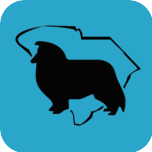
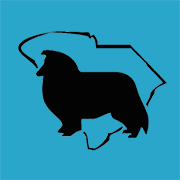
Updating assets

diff --git a/events.html b/events.html
@@ -7,24 +7,7 @@
     <meta name="description" content="List of SC Sheltie Rescue events.">
     <meta name="viewport" content="width=device-width, initial-scale=1">
 
-    <link rel="apple-touch-icon" sizes="57x57" href="/apple-touch-icon-57x57.png" />
-    <link rel="apple-touch-icon" sizes="114x114" href="/apple-touch-icon-114x114.png" />
-    <link rel="apple-touch-icon" sizes="72x72" href="/apple-touch-icon-72x72.png" />
-    <link rel="apple-touch-icon" sizes="144x144" href="/apple-touch-icon-144x144.png" />
-    <link rel="apple-touch-icon" sizes="60x60" href="/apple-touch-icon-60x60.png" />
-    <link rel="apple-touch-icon" sizes="120x120" href="/apple-touch-icon-120x120.png" />
-    <link rel="apple-touch-icon" sizes="76x76" href="/apple-touch-icon-76x76.png" />
-    <link rel="apple-touch-icon" sizes="152x152" href="/apple-touch-icon-152x152.png" />
-    <link rel="icon" type="image/png" href="/favicon-16x16.png" sizes="16x16" />
-    <link rel="icon" type="image/png" href="/favicon-32x32.png" sizes="32x32" />
-    <link rel="icon" type="image/png" href="/favicon-96x96.png" sizes="96x96" />
-    <link rel="icon" type="image/png" href="/favicon-160x160.png" sizes="160x160" />
-    <meta name="msapplication-TileColor" content="#2ba6cb" />
-    <meta name="msapplication-TileImage" content="/mstile-144x144.png" />
-    <meta name="msapplication-square70x70logo" content="/mstile-70x70.png" />
-    <meta name="msapplication-square150x150logo" content="/mstile-150x150.png" />
-    <meta name="msapplication-wide310x150logo" content="/mstile-310x150.png" />
-    <meta name="msapplication-square310x310logo" content="/mstile-310x310.png" />
+    <link rel="icon" sizes="192x192" href="favicon-192x192.png">
 
     <link rel="stylesheet" href="css/app.20140209.css"> <!-- Cache Busting: Update the # when you update main.css -->
     <script src="bower_components/modernizr/modernizr.js"></script>
@@ -75,11 +58,11 @@
             <div class="alert-box margin-top" data-alert>
               <p><strong>Update:</strong> Huge thank you to Wine & Design in Charlotte NC for hosting our summer 2014 'Paint Your Pet' event! Thank you to all who came out and helped raise much needed funds for the rescue!</p>
             </div>
-            
+
              <h2 class="event-header" id="sfd-2014">Sheltie Fun Day 2014 <small>Sat. Oct. 11, 2014 @ Columbia, SC</small></h2>
             <p>[<a class="external-link" href="img/sfd_2014.pdf" target="_blank">View PDF<span class="icon-new-tab"></span></a>]</p>
             <p>
-            
+
               Saturday, October 11, 2014<br />
               11:30am - 3:30pm<br />
               Saluda Shoals Park (Red Bud Shelter)<br />
@@ -106,7 +89,7 @@
             <h2 class="event-header" id="spring-fundraiser-2014">Spring Fundraiser 2014 <small>Sat. Apr. 12, 2014 @ Irmo, SC</small></h2>
             <p>[<a class="external-link" href="img/spring_fundraiser_2014.pdf" target="_blank">View PDF<span class="icon-new-tab"></span></a>]</p>
             <p>
-            
+
               Saturday, April 12, 2014<br />
               Noon - 4:00pm<br />
               Pet Supplies Plus<br />
@@ -122,7 +105,7 @@
               <li>We&rsquo;ll have goodies for raffle</li>
               <li>Rescue dogs available to meet you!</li>
             </ul>
-            
+
             <p><em>ALL DOGS MUST BE LEASHED</em></p>
 
             <p><em>BIG</em> thanks to our pals at Pet Supplies Plus in Irmo for all of their wonderful support!!</p>

diff --git a/404.html b/404.html
@@ -1,59 +1,60 @@
-<!DOCTYPE html>
+<!doctype html>
 <html lang="en">
-    <head>
-        <meta charset="utf-8">
-        <title>Page Not Found</title>
-        <meta name="viewport" content="width=device-width, initial-scale=1">
-        <style>
+<head>
+    <meta charset="utf-8">
+    <title>Page Not Found</title>
+    <meta name="viewport" content="width=device-width, initial-scale=1">
+    <style>
 
-            * {
-                margin: 0;
-                line-height: 1.5;
-            }
+        * {
+            line-height: 1.2;
+            margin: 0;
+        }
 
-            html {
-                color: #888;
-                font-family: sans-serif;
-                text-align: center;
-            }
+        html {
+            color: #888;
+            display: table;
+            font-family: sans-serif;
+            height: 100%;
+            text-align: center;
+            width: 100%;
+        }
 
-            body {
-                left: 50%;
-                margin: -43px 0 0 -150px;
-                position: absolute;
-                top: 50%;
-                width: 300px;
+        body {
+            display: table-cell;
+            vertical-align: middle;
+            margin: 2em auto;
+        }
+
+        h1 {
+            color: #555;
+            font-size: 2em;
+            font-weight: 400;
+        }
+
+        p {
+            margin: 0 auto;
+            width: 280px;
+        }
+
+        @media only screen and (max-width: 280px) {
+
+            body, p {
+                width: 95%;
             }
 
             h1 {
-                color: #555;
-                font-size: 2em;
-                font-weight: 400;
+                font-size: 1.5em;
+                margin: 0 0 0.3em;
             }
 
-            p {
-                line-height: 1.2;
-            }
+        }
 
-            @media only screen and (max-width: 270px) {
-
-                body {
-                    margin: 10px auto;
-                    position: static;
-                    width: 95%;
-                }
-
-                h1 {
-                    font-size: 1.5em;
-                }
-
-            }
-
-        </style>
-    </head>
-    <body>
-        <h1>Page Not Found</h1>
-        <p>Sorry, but the page you were trying to view does not exist.</p>
-    </body>
+    </style>
+</head>
+<body>
+    <h1>Page Not Found</h1>
+    <p>Sorry, but the page you were trying to view does not exist.</p>
+</body>
 </html>
-<!-- IE requires 512+ bytes: http://www.404-error-page.com/404-error-page-too-short-problem-microsoft-ie.shtml -->
+<!-- IE needs 512+ bytes: http://blogs.msdn.com/b/ieinternals/archive/2010/08/19/http-error-pages-in-internet-explorer.aspx -->

diff --git a/index.html b/index.html
@@ -7,24 +7,7 @@
     <meta name="description" content="SC Sheltie Rescue is a non-profit volunteer group dedicated to helping Shetland Sheepdogs in Columbia, SC and the surrounding areas.">
     <meta name="viewport" content="width=device-width, initial-scale=1">
 
-    <link rel="apple-touch-icon" sizes="57x57" href="/apple-touch-icon-57x57.png" />
-    <link rel="apple-touch-icon" sizes="114x114" href="/apple-touch-icon-114x114.png" />
-    <link rel="apple-touch-icon" sizes="72x72" href="/apple-touch-icon-72x72.png" />
-    <link rel="apple-touch-icon" sizes="144x144" href="/apple-touch-icon-144x144.png" />
-    <link rel="apple-touch-icon" sizes="60x60" href="/apple-touch-icon-60x60.png" />
-    <link rel="apple-touch-icon" sizes="120x120" href="/apple-touch-icon-120x120.png" />
-    <link rel="apple-touch-icon" sizes="76x76" href="/apple-touch-icon-76x76.png" />
-    <link rel="apple-touch-icon" sizes="152x152" href="/apple-touch-icon-152x152.png" />
-    <link rel="icon" type="image/png" href="/favicon-16x16.png" sizes="16x16" />
-    <link rel="icon" type="image/png" href="/favicon-32x32.png" sizes="32x32" />
-    <link rel="icon" type="image/png" href="/favicon-96x96.png" sizes="96x96" />
-    <link rel="icon" type="image/png" href="/favicon-160x160.png" sizes="160x160" />
-    <meta name="msapplication-TileColor" content="#2ba6cb" />
-    <meta name="msapplication-TileImage" content="/mstile-144x144.png" />
-    <meta name="msapplication-square70x70logo" content="/mstile-70x70.png" />
-    <meta name="msapplication-square150x150logo" content="/mstile-150x150.png" />
-    <meta name="msapplication-wide310x150logo" content="/mstile-310x150.png" />
-    <meta name="msapplication-square310x310logo" content="/mstile-310x310.png" />
+    <link rel="icon" sizes="192x192" href="favicon-192x192.png">
 
     <link rel="stylesheet" href="css/app.20140209.css"> <!-- Cache Busting: Update the # when you update main.css -->
     <script src="bower_components/modernizr/modernizr.js"></script>

diff --git a/available_dogs.html b/available_dogs.html
@@ -7,24 +7,7 @@
     <meta name="description" content="List of SC Sheltie Rescue dogs available for adoption.">
     <meta name="viewport" content="width=device-width, initial-scale=1">
 
-    <link rel="apple-touch-icon" sizes="57x57" href="/apple-touch-icon-57x57.png" />
-    <link rel="apple-touch-icon" sizes="114x114" href="/apple-touch-icon-114x114.png" />
-    <link rel="apple-touch-icon" sizes="72x72" href="/apple-touch-icon-72x72.png" />
-    <link rel="apple-touch-icon" sizes="144x144" href="/apple-touch-icon-144x144.png" />
-    <link rel="apple-touch-icon" sizes="60x60" href="/apple-touch-icon-60x60.png" />
-    <link rel="apple-touch-icon" sizes="120x120" href="/apple-touch-icon-120x120.png" />
-    <link rel="apple-touch-icon" sizes="76x76" href="/apple-touch-icon-76x76.png" />
-    <link rel="apple-touch-icon" sizes="152x152" href="/apple-touch-icon-152x152.png" />
-    <link rel="icon" type="image/png" href="/favicon-16x16.png" sizes="16x16" />
-    <link rel="icon" type="image/png" href="/favicon-32x32.png" sizes="32x32" />
-    <link rel="icon" type="image/png" href="/favicon-96x96.png" sizes="96x96" />
-    <link rel="icon" type="image/png" href="/favicon-160x160.png" sizes="160x160" />
-    <meta name="msapplication-TileColor" content="#2ba6cb" />
-    <meta name="msapplication-TileImage" content="/mstile-144x144.png" />
-    <meta name="msapplication-square70x70logo" content="/mstile-70x70.png" />
-    <meta name="msapplication-square150x150logo" content="/mstile-150x150.png" />
-    <meta name="msapplication-wide310x150logo" content="/mstile-310x150.png" />
-    <meta name="msapplication-square310x310logo" content="/mstile-310x310.png" />
+    <link rel="icon" sizes="192x192" href="favicon-192x192.png">
 
     <link rel="stylesheet" href="css/app.20140209.css"> <!-- Cache Busting: Update the # when you update main.css -->
     <script src="bower_components/modernizr/modernizr.js"></script>

diff --git a/surrender.html b/surrender.html
@@ -7,24 +7,7 @@
     <meta name="description" content="How to surrender your sheltie to SC Sheltie Rescue.">
     <meta name="viewport" content="width=device-width, initial-scale=1">
 
-    <link rel="apple-touch-icon" sizes="57x57" href="/apple-touch-icon-57x57.png" />
-    <link rel="apple-touch-icon" sizes="114x114" href="/apple-touch-icon-114x114.png" />
-    <link rel="apple-touch-icon" sizes="72x72" href="/apple-touch-icon-72x72.png" />
-    <link rel="apple-touch-icon" sizes="144x144" href="/apple-touch-icon-144x144.png" />
-    <link rel="apple-touch-icon" sizes="60x60" href="/apple-touch-icon-60x60.png" />
-    <link rel="apple-touch-icon" sizes="120x120" href="/apple-touch-icon-120x120.png" />
-    <link rel="apple-touch-icon" sizes="76x76" href="/apple-touch-icon-76x76.png" />
-    <link rel="apple-touch-icon" sizes="152x152" href="/apple-touch-icon-152x152.png" />
-    <link rel="icon" type="image/png" href="/favicon-16x16.png" sizes="16x16" />
-    <link rel="icon" type="image/png" href="/favicon-32x32.png" sizes="32x32" />
-    <link rel="icon" type="image/png" href="/favicon-96x96.png" sizes="96x96" />
-    <link rel="icon" type="image/png" href="/favicon-160x160.png" sizes="160x160" />
-    <meta name="msapplication-TileColor" content="#2ba6cb" />
-    <meta name="msapplication-TileImage" content="/mstile-144x144.png" />
-    <meta name="msapplication-square70x70logo" content="/mstile-70x70.png" />
-    <meta name="msapplication-square150x150logo" content="/mstile-150x150.png" />
-    <meta name="msapplication-wide310x150logo" content="/mstile-310x150.png" />
-    <meta name="msapplication-square310x310logo" content="/mstile-310x310.png" />
+    <link rel="icon" sizes="192x192" href="favicon-192x192.png">
 
     <link rel="stylesheet" href="css/app.20140209.css"> <!-- Cache Busting: Update the # when you update main.css -->
     <script src="bower_components/modernizr/modernizr.js"></script>

diff --git a/adoption_requirements.html b/adoption_requirements.html
@@ -7,24 +7,7 @@
     <meta name="description" content="List of SC Sheltie Rescue adoption requirements.">
     <meta name="viewport" content="width=device-width, initial-scale=1">
 
-    <link rel="apple-touch-icon" sizes="57x57" href="/apple-touch-icon-57x57.png" />
-    <link rel="apple-touch-icon" sizes="114x114" href="/apple-touch-icon-114x114.png" />
-    <link rel="apple-touch-icon" sizes="72x72" href="/apple-touch-icon-72x72.png" />
-    <link rel="apple-touch-icon" sizes="144x144" href="/apple-touch-icon-144x144.png" />
-    <link rel="apple-touch-icon" sizes="60x60" href="/apple-touch-icon-60x60.png" />
-    <link rel="apple-touch-icon" sizes="120x120" href="/apple-touch-icon-120x120.png" />
-    <link rel="apple-touch-icon" sizes="76x76" href="/apple-touch-icon-76x76.png" />
-    <link rel="apple-touch-icon" sizes="152x152" href="/apple-touch-icon-152x152.png" />
-    <link rel="icon" type="image/png" href="/favicon-16x16.png" sizes="16x16" />
-    <link rel="icon" type="image/png" href="/favicon-32x32.png" sizes="32x32" />
-    <link rel="icon" type="image/png" href="/favicon-96x96.png" sizes="96x96" />
-    <link rel="icon" type="image/png" href="/favicon-160x160.png" sizes="160x160" />
-    <meta name="msapplication-TileColor" content="#2ba6cb" />
-    <meta name="msapplication-TileImage" content="/mstile-144x144.png" />
-    <meta name="msapplication-square70x70logo" content="/mstile-70x70.png" />
-    <meta name="msapplication-square150x150logo" content="/mstile-150x150.png" />
-    <meta name="msapplication-wide310x150logo" content="/mstile-310x150.png" />
-    <meta name="msapplication-square310x310logo" content="/mstile-310x310.png" />
+    <link rel="icon" sizes="192x192" href="favicon-192x192.png">
 
     <link rel="stylesheet" href="css/app.20140209.css"> <!-- Cache Busting: Update the # when you update main.css -->
     <script src="bower_components/modernizr/modernizr.js"></script>

diff --git a/help_and_advice.html b/help_and_advice.html
@@ -7,24 +7,7 @@
     <meta name="description" content="Expert help and advice for your sheltie.">
     <meta name="viewport" content="width=device-width, initial-scale=1">
 
-    <link rel="apple-touch-icon" sizes="57x57" href="/apple-touch-icon-57x57.png" />
-    <link rel="apple-touch-icon" sizes="114x114" href="/apple-touch-icon-114x114.png" />
-    <link rel="apple-touch-icon" sizes="72x72" href="/apple-touch-icon-72x72.png" />
-    <link rel="apple-touch-icon" sizes="144x144" href="/apple-touch-icon-144x144.png" />
-    <link rel="apple-touch-icon" sizes="60x60" href="/apple-touch-icon-60x60.png" />
-    <link rel="apple-touch-icon" sizes="120x120" href="/apple-touch-icon-120x120.png" />
-    <link rel="apple-touch-icon" sizes="76x76" href="/apple-touch-icon-76x76.png" />
-    <link rel="apple-touch-icon" sizes="152x152" href="/apple-touch-icon-152x152.png" />
-    <link rel="icon" type="image/png" href="/favicon-16x16.png" sizes="16x16" />
-    <link rel="icon" type="image/png" href="/favicon-32x32.png" sizes="32x32" />
-    <link rel="icon" type="image/png" href="/favicon-96x96.png" sizes="96x96" />
-    <link rel="icon" type="image/png" href="/favicon-160x160.png" sizes="160x160" />
-    <meta name="msapplication-TileColor" content="#2ba6cb" />
-    <meta name="msapplication-TileImage" content="/mstile-144x144.png" />
-    <meta name="msapplication-square70x70logo" content="/mstile-70x70.png" />
-    <meta name="msapplication-square150x150logo" content="/mstile-150x150.png" />
-    <meta name="msapplication-wide310x150logo" content="/mstile-310x150.png" />
-    <meta name="msapplication-square310x310logo" content="/mstile-310x310.png" />
+    <link rel="icon" sizes="192x192" href="favicon-192x192.png">
 
     <link rel="stylesheet" href="css/app.20140209.css"> <!-- Cache Busting: Update the # when you update main.css -->
     <script src="bower_components/modernizr/modernizr.js"></script>

diff --git a/apply_to_foster.php b/apply_to_foster.php
@@ -7,24 +7,7 @@
     <meta name="description" content="Apply to foster a sheltie today with the SC Sheltie Rescue.">
     <meta name="viewport" content="width=device-width, initial-scale=1">
 
-    <link rel="apple-touch-icon" sizes="57x57" href="/apple-touch-icon-57x57.png" />
-    <link rel="apple-touch-icon" sizes="114x114" href="/apple-touch-icon-114x114.png" />
-    <link rel="apple-touch-icon" sizes="72x72" href="/apple-touch-icon-72x72.png" />
-    <link rel="apple-touch-icon" sizes="144x144" href="/apple-touch-icon-144x144.png" />
-    <link rel="apple-touch-icon" sizes="60x60" href="/apple-touch-icon-60x60.png" />
-    <link rel="apple-touch-icon" sizes="120x120" href="/apple-touch-icon-120x120.png" />
-    <link rel="apple-touch-icon" sizes="76x76" href="/apple-touch-icon-76x76.png" />
-    <link rel="apple-touch-icon" sizes="152x152" href="/apple-touch-icon-152x152.png" />
-    <link rel="icon" type="image/png" href="/favicon-16x16.png" sizes="16x16" />
-    <link rel="icon" type="image/png" href="/favicon-32x32.png" sizes="32x32" />
-    <link rel="icon" type="image/png" href="/favicon-96x96.png" sizes="96x96" />
-    <link rel="icon" type="image/png" href="/favicon-160x160.png" sizes="160x160" />
-    <meta name="msapplication-TileColor" content="#2ba6cb" />
-    <meta name="msapplication-TileImage" content="/mstile-144x144.png" />
-    <meta name="msapplication-square70x70logo" content="/mstile-70x70.png" />
-    <meta name="msapplication-square150x150logo" content="/mstile-150x150.png" />
-    <meta name="msapplication-wide310x150logo" content="/mstile-310x150.png" />
-    <meta name="msapplication-square310x310logo" content="/mstile-310x310.png" />
+    <link rel="icon" sizes="192x192" href="favicon-192x192.png">
 
     <link rel="stylesheet" href="css/app.20140209.css"> <!-- Cache Busting: Update the # when you update main.css -->
     <script src="bower_components/modernizr/modernizr.js"></script>

diff --git a/apply_to_adopt.php b/apply_to_adopt.php
@@ -7,24 +7,7 @@
     <meta name="description" content="Apply to adopt a sheltie today with the SC Sheltie Rescue.">
     <meta name="viewport" content="width=device-width, initial-scale=1">
 
-    <link rel="apple-touch-icon" sizes="57x57" href="/apple-touch-icon-57x57.png" />
-    <link rel="apple-touch-icon" sizes="114x114" href="/apple-touch-icon-114x114.png" />
-    <link rel="apple-touch-icon" sizes="72x72" href="/apple-touch-icon-72x72.png" />
-    <link rel="apple-touch-icon" sizes="144x144" href="/apple-touch-icon-144x144.png" />
-    <link rel="apple-touch-icon" sizes="60x60" href="/apple-touch-icon-60x60.png" />
-    <link rel="apple-touch-icon" sizes="120x120" href="/apple-touch-icon-120x120.png" />
-    <link rel="apple-touch-icon" sizes="76x76" href="/apple-touch-icon-76x76.png" />
-    <link rel="apple-touch-icon" sizes="152x152" href="/apple-touch-icon-152x152.png" />
-    <link rel="icon" type="image/png" href="/favicon-16x16.png" sizes="16x16" />
-    <link rel="icon" type="image/png" href="/favicon-32x32.png" sizes="32x32" />
-    <link rel="icon" type="image/png" href="/favicon-96x96.png" sizes="96x96" />
-    <link rel="icon" type="image/png" href="/favicon-160x160.png" sizes="160x160" />
-    <meta name="msapplication-TileColor" content="#2ba6cb" />
-    <meta name="msapplication-TileImage" content="/mstile-144x144.png" />
-    <meta name="msapplication-square70x70logo" content="/mstile-70x70.png" />
-    <meta name="msapplication-square150x150logo" content="/mstile-150x150.png" />
-    <meta name="msapplication-wide310x150logo" content="/mstile-310x150.png" />
-    <meta name="msapplication-square310x310logo" content="/mstile-310x310.png" />
+    <link rel="icon" sizes="192x192" href="favicon-192x192.png">
 
     <link rel="stylesheet" href="css/app.20140209.css"> <!-- Cache Busting: Update the # when you update main.css -->
     <script src="bower_components/modernizr/modernizr.js"></script>
